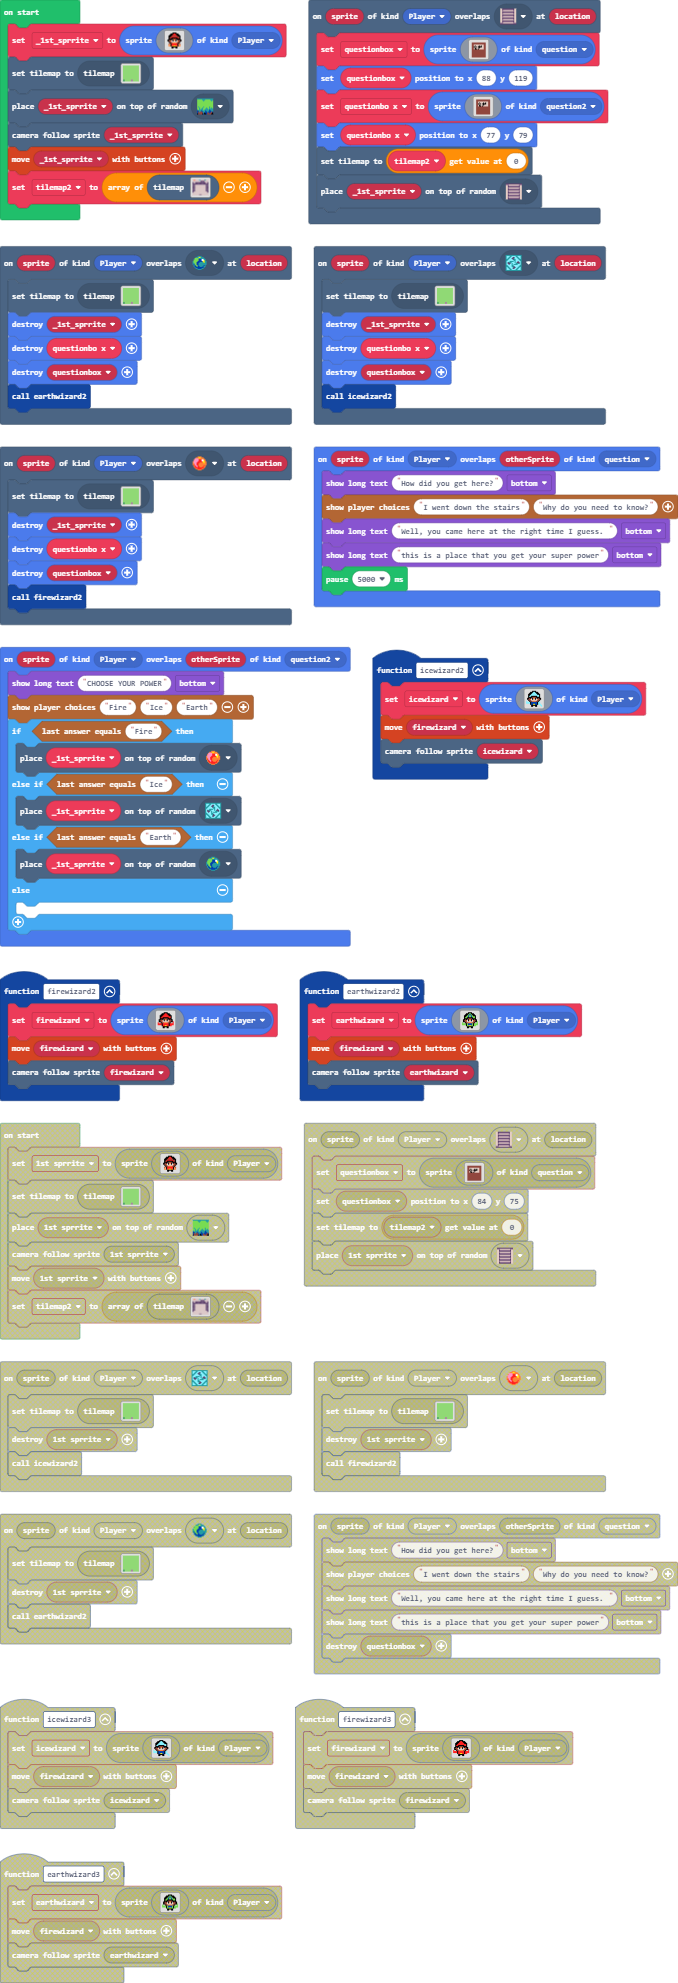
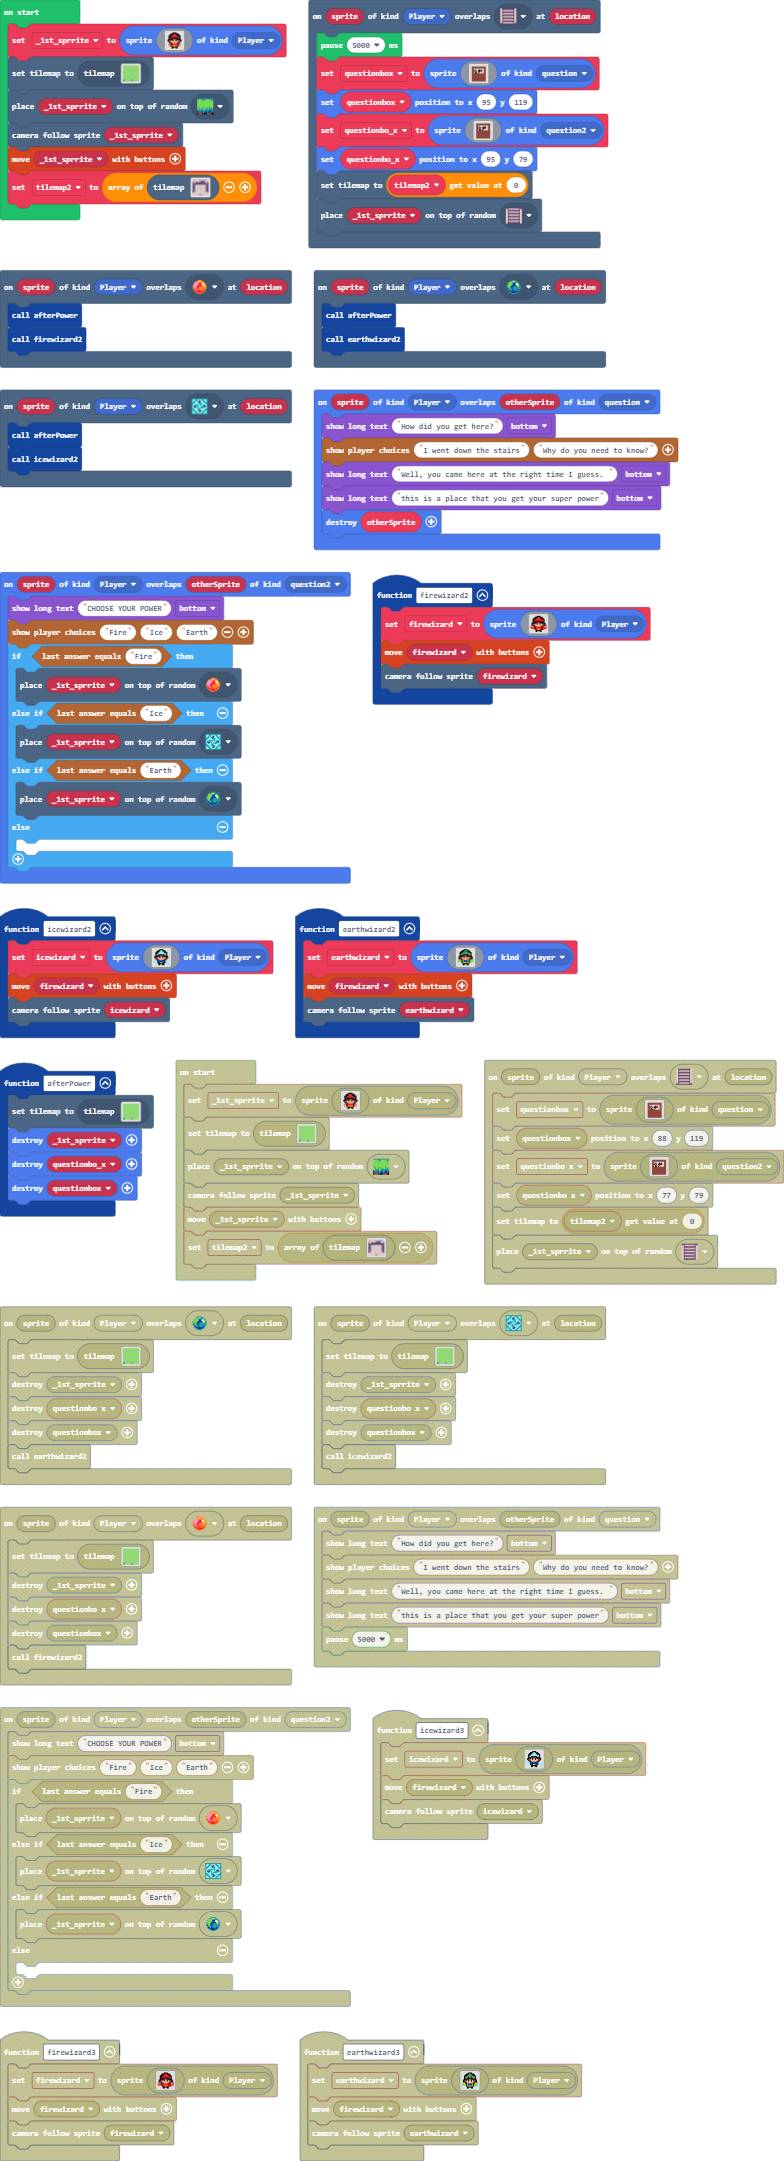
Update pxt.json, main.blocks, main.ts, tilemap.g.jres, tilemap.g.ts

diff --git a/main.ts b/main.ts
@@ -3,6 +3,7 @@ namespace SpriteKind {
     export const question2 = SpriteKind.create()
 }
 scene.onOverlapTile(SpriteKind.Player, sprites.dungeon.stairNorth, function (sprite, location) {
+    pause(5000)
     questionbox = sprites.create(img`
         . . . . . . . . . . . . . . . . 
         . e e e e e e e e e e e e e e . 
@@ -21,7 +22,7 @@ scene.onOverlapTile(SpriteKind.Player, sprites.dungeon.stairNorth, function (spr
         . e e e e e e e e e e e e e e . 
         . e e e e e e e e e e e e e e . 
         `, SpriteKind.question)
-    questionbox.setPosition(88, 119)
+    questionbox.setPosition(95, 119)
     questionbo_x = sprites.create(img`
         . . . . . . . . . . . . . . . . 
         . e e e e e e e e e e e e e e . 
@@ -40,16 +41,22 @@ scene.onOverlapTile(SpriteKind.Player, sprites.dungeon.stairNorth, function (spr
         . e e e e e e e e e e e e e e . 
         . e e e e e e e e e e e e e e . 
         `, SpriteKind.question2)
-    questionbo_x.setPosition(77, 79)
+    questionbo_x.setPosition(95, 79)
     tiles.setCurrentTilemap(tilemap2[0])
     tiles.placeOnRandomTile(_1st_sprrite, sprites.dungeon.stairSouth)
 })
+function afterPower () {
+    tiles.setCurrentTilemap(tilemap`level13`)
+    sprites.destroy(_1st_sprrite)
+    sprites.destroy(questionbo_x)
+    sprites.destroy(questionbox)
+}
 sprites.onOverlap(SpriteKind.Player, SpriteKind.question, function (sprite, otherSprite) {
     game.showLongText("How did you get here?", DialogLayout.Bottom)
     story.showPlayerChoices("I went down the stairs", "Why do you need to know?")
     game.showLongText("Well, you came here at the right time I guess. ", DialogLayout.Bottom)
     game.showLongText("this is a place that you get your super power", DialogLayout.Bottom)
-    pause(5000)
+    sprites.destroy(otherSprite)
 })
 sprites.onOverlap(SpriteKind.Player, SpriteKind.question2, function (sprite, otherSprite) {
     game.showLongText("CHOOSE YOUR POWER", DialogLayout.Bottom)
@@ -87,10 +94,7 @@ function earthwizard2 () {
     scene.cameraFollowSprite(earthwizard)
 }
 scene.onOverlapTile(SpriteKind.Player, sprites.dungeon.collectibleBlueCrystal, function (sprite, location) {
-    tiles.setCurrentTilemap(tilemap`level13`)
-    sprites.destroy(_1st_sprrite)
-    sprites.destroy(questionbo_x)
-    sprites.destroy(questionbox)
+    afterPower()
     earthwizard2()
 })
 function firewizard2 () {
@@ -138,17 +142,11 @@ function icewizard2 () {
     scene.cameraFollowSprite(icewizard)
 }
 scene.onOverlapTile(SpriteKind.Player, sprites.dungeon.collectibleRedCrystal, function (sprite, location) {
-    tiles.setCurrentTilemap(tilemap`level13`)
-    sprites.destroy(_1st_sprrite)
-    sprites.destroy(questionbo_x)
-    sprites.destroy(questionbox)
+    afterPower()
     firewizard2()
 })
 scene.onOverlapTile(SpriteKind.Player, sprites.dungeon.collectibleInsignia, function (sprite, location) {
-    tiles.setCurrentTilemap(tilemap`level13`)
-    sprites.destroy(_1st_sprrite)
-    sprites.destroy(questionbo_x)
-    sprites.destroy(questionbox)
+    afterPower()
     icewizard2()
 })
 let icewizard: Sprite = null

diff --git a/tilemap.g.ts b/tilemap.g.ts
@@ -291,6 +291,44 @@ namespace myTiles {
 2 . . . . . . . . . . 2 
 2 2 2 2 2 . . 2 2 2 2 2 
 `, [myTiles.transparency16,sprites.dungeon.darkGroundEast,sprites.dungeon.darkGroundWest,sprites.dungeon.floorLight0,sprites.dungeon.darkGroundSouthWest1,sprites.dungeon.collectibleRedCrystal,sprites.dungeon.collectibleInsignia,sprites.dungeon.collectibleBlueCrystal,sprites.dungeon.stairSouth,sprites.dungeon.darkGroundCenter], TileScale.Sixteen);
+            case "level15":
+            case "level15":return tiles.createTilemap(hex`1000100000000000000000000000000000000000000000000000000000000000000000000000000000000000000000000000000000000000000000000000000000000000000000000000000000000000000000000000000000000000000000000000000000000000000000000000000000000000000000000000000000000000000000000000000000000000000000000000000000000000000000000000000000000000000000000000000000000000000000000000000000000000000000000000000000000000000000000000000000000000000000000000000000000000000000000000000000000000000000000000000000000000000000000000000000000000`, img`
+. . . . . . . . . . . . . . . . 
+. . . . . . . . . . . . . . . . 
+. . . . . . . . . . . . . . . . 
+. . . . . . . . . . . . . . . . 
+. . . . . . . . . . . . . . . . 
+. . . . . . . . . . . . . . . . 
+. . . . . . . . . . . . . . . . 
+. . . . . . . . . . . . . . . . 
+. . . . . . . . . . . . . . . . 
+. . . . . . . . . . . . . . . . 
+. . . . . . . . . . . . . . . . 
+. . . . . . . . . . . . . . . . 
+. . . . . . . . . . . . . . . . 
+. . . . . . . . . . . . . . . . 
+. . . . . . . . . . . . . . . . 
+. . . . . . . . . . . . . . . . 
+`, [myTiles.transparency16], TileScale.Sixteen);
+            case "level16":
+            case "level16":return tiles.createTilemap(hex`1000100000000000000000000000000000000000000000000000000000000000000000000000000000000000000000000000000000000000000000000000000000000000000000000000000000000000000000000000000000000000000000000000000000000000000000000000000000000000000000000000000000000000000000000000000000000000000000000000000000000000000000000000000000000000000000000000000000000000000000000000000000000000000000000000000000000000000000000000000000000000000000000000000000000000000000000000000000000000000000000000000000000000000000000000000000000000`, img`
+. . . . . . . . . . . . . . . . 
+. . . . . . . . . . . . . . . . 
+. . . . . . . . . . . . . . . . 
+. . . . . . . . . . . . . . . . 
+. . . . . . . . . . . . . . . . 
+. . . . . . . . . . . . . . . . 
+. . . . . . . . . . . . . . . . 
+. . . . . . . . . . . . . . . . 
+. . . . . . . . . . . . . . . . 
+. . . . . . . . . . . . . . . . 
+. . . . . . . . . . . . . . . . 
+. . . . . . . . . . . . . . . . 
+. . . . . . . . . . . . . . . . 
+. . . . . . . . . . . . . . . . 
+. . . . . . . . . . . . . . . . 
+. . . . . . . . . . . . . . . . 
+`, [myTiles.transparency16], TileScale.Sixteen);
         }
         return null;
     })
